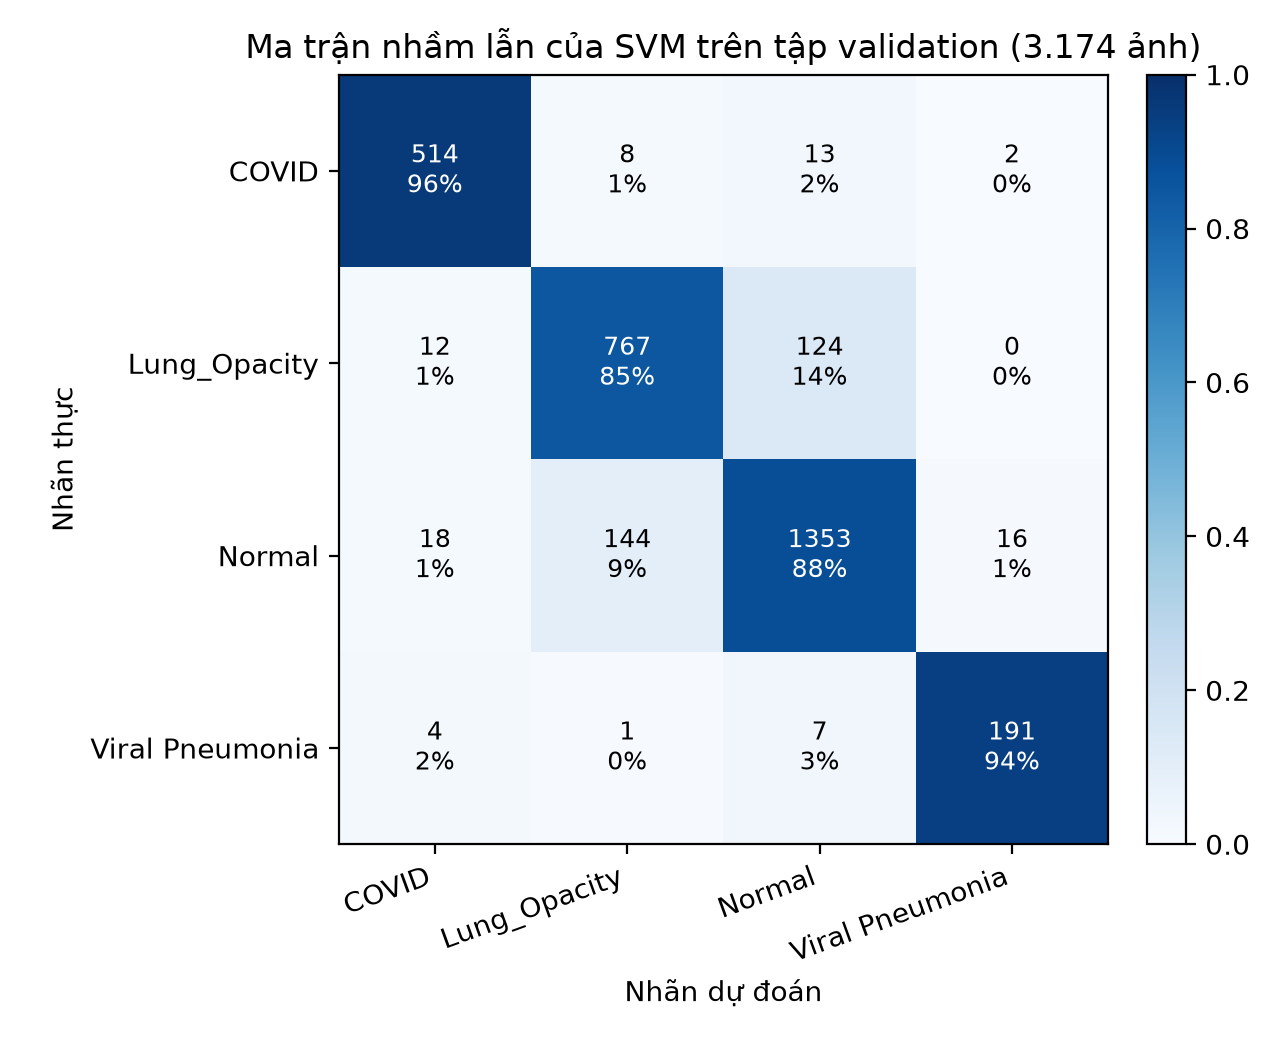
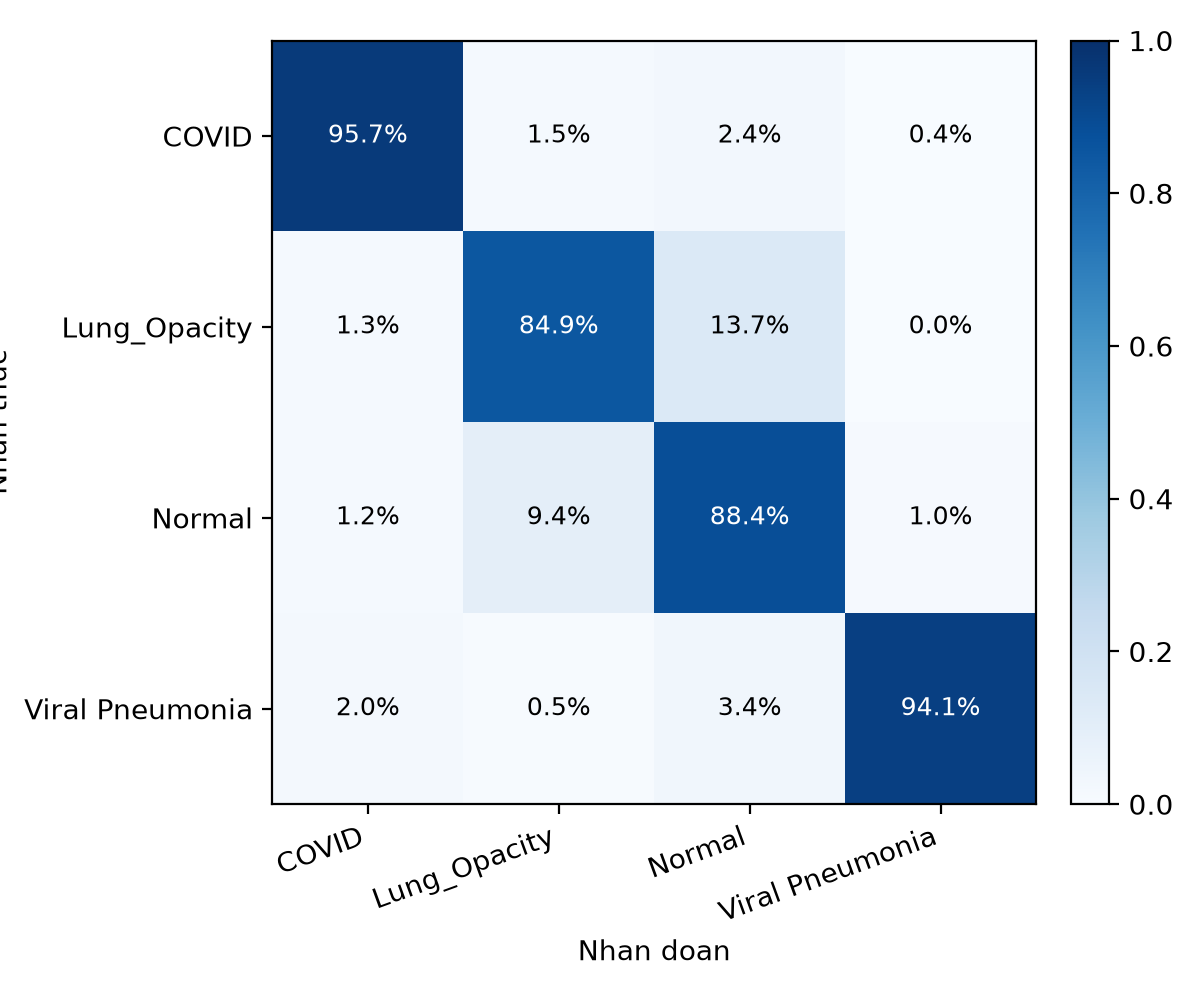
report: fix chapter 3 pair rates and rgb check

diff --git a/scripts/report_figures.py b/scripts/report_figures.py
@@ -1,8 +1,9 @@
-"""Sinh Hình 3.1 cho báo cáo: ma trận nhầm lẫn chuẩn hóa theo hàng.
+"""Sinh Hình 3.1 cho báo cáo: tỷ lệ lỗi theo hàng của ma trận nhầm lẫn.
 
 Số liệu đọc từ ``results/rq2_ghep_svm_s42/metrics.json`` (khóa ``confusion_matrix``),
 đã commit và không đọc ảnh. Mỗi hàng chia cho tổng hàng, nên ô trên đường chéo là recall
-của lớp đó. Hình ghi kèm số đếm gốc trong ngoặc để bảng và hình không lệch nhau.
+của lớp đó. Hình chỉ hiện tỷ lệ; số đếm gốc nằm ở Bảng 3.5 của báo cáo để hai chỗ không
+lặp lại cùng một thông tin.
 
 Chạy: ``python -m scripts.report_figures``
 """
@@ -47,32 +48,22 @@ def normalize_rows(matrix: np.ndarray) -> np.ndarray:
     return matrix / safe
 
 
-def draw(matrix: np.ndarray, out_path: Path, title: str) -> Path:
-    """Vẽ heatmap recall theo hàng cho ma trận nhầm lẫn."""
+def draw(matrix: np.ndarray, out_path: Path) -> Path:
+    """Vẽ heatmap tỷ lệ lỗi theo hàng cho ma trận nhầm lẫn."""
     row_normalized = normalize_rows(matrix)
-    fig, ax = plt.subplots(figsize=(6.4, 5.2))
+    fig, ax = plt.subplots(figsize=(6.0, 5.0))
     image = ax.imshow(row_normalized, cmap="Blues", vmin=0.0, vmax=1.0)
 
     ax.set_xticks(range(4), CLASS_NAMES, rotation=20, ha="right")
     ax.set_yticks(range(4), CLASS_NAMES)
-    ax.set_xlabel("Nhãn dự đoán")
-    ax.set_ylabel("Nhãn thực")
-    ax.set_title(title)
+    ax.set_xlabel("Nhan doan")
+    ax.set_ylabel("Nhan thuc")
 
     for i in range(4):
         for j in range(4):
-            value = matrix[i, j]
             share = row_normalized[i, j]
             color = "white" if share > 0.55 else "black"
-            ax.text(
-                j,
-                i,
-                f"{value}\n{share:.0%}",
-                ha="center",
-                va="center",
-                fontsize=9,
-                color=color,
-            )
+            ax.text(j, i, f"{share:.1%}", ha="center", va="center", fontsize=9, color=color)
 
     fig.colorbar(image, ax=ax, fraction=0.046, pad=0.04)
     ax.set_aspect("equal")
@@ -87,7 +78,7 @@ def draw(matrix: np.ndarray, out_path: Path, title: str) -> Path:
 def build(metrics_path: Path, out_path: Path) -> Dict[str, object]:
     """Đọc số liệu, vẽ hình và trả về thông tin dùng cho báo cáo."""
     matrix = load_confusion(metrics_path)
-    path = draw(matrix, out_path, "Ma trận nhầm lẫn của SVM trên tập validation (3.174 ảnh)")
+    path = draw(matrix, out_path)
     row_normalized = normalize_rows(matrix)
     diagonal = row_normalized.diagonal().tolist()
     return {
@@ -105,8 +96,8 @@ def main(argv: List[str] | None = None) -> int:
     args = parser.parse_args(argv)
 
     info = build(args.metrics, args.out)
-    print(f"Đã ghi {info['figure']}")
-    print(f"Recall theo hàng: {info['row_recall']}")
+    print(f"Da ghi {info['figure']}")
+    print(f"Recall theo hang: {info['row_recall']}")
     return 0
 
 

diff --git a/report/03_ket_qua_rq1_rq2.md b/report/03_ket_qua_rq1_rq2.md
@@ -2,7 +2,7 @@
 
 ## 3.1. RQ1: bốn nhóm đặc trưng trên Random Forest
 
-Câu hỏi RQ1 chọn nhóm đặc trưng nào cho macro-F1 cao nhất khi bộ phân loại được cố định trước. Bộ phân loại đó là Random Forest với 500 cây và `class_weight = balanced_subsample`, chạy trên ba seed 42, 43 và 44. Bốn nhóm đặc trưng được so sánh trên cùng một tập validation 3.174 ảnh; histogram giữ vai trò mốc tham chiếu.
+RQ1 hỏi nhóm đặc trưng nào cho macro-F1 cao nhất khi bộ phân loại được cố định trước. Bộ phân loại đó là Random Forest với 500 cây và `class_weight = balanced_subsample`, chạy trên ba seed 42, 43 và 44. Bốn nhóm đặc trưng được so sánh trên cùng một tập validation 3.174 ảnh; histogram giữ vai trò mốc tham chiếu.
 
 **Bảng 3.1: Macro-F1 bốn nhóm đặc trưng trên validation, trung bình 3 seed**
 
@@ -17,11 +17,11 @@ Câu hỏi RQ1 chọn nhóm đặc trưng nào cho macro-F1 cao nhất khi bộ 
 
 Cả 12 lần chạy, gồm bốn nhóm nhân ba seed, đều vượt hai mốc nền: mốc tầm thường B0 = 0,1627 và mốc A0 = 0,2397. Như vậy không nhóm đặc trưng nào chỉ dừng ở mức của một mô hình đọc độ sáng và định dạng tệp.
 
-Thứ tự xếp hạng không đi theo số chiều: nhóm 152 chiều đứng đầu, nhóm 64 chiều đứng thứ ba và nhóm 10.404 chiều đứng cuối. Nhóm ghép đổi 0,0770 điểm macro-F1 so với histogram, đổi lại tốn 0,056773 giây CPU cho mỗi ảnh so với 0,001337 giây, tức khoảng 42 lần.
+Thứ tự xếp hạng không đi theo số chiều: nhóm 152 chiều đứng đầu, nhóm 64 chiều đứng thứ ba và nhóm 10.404 chiều đứng cuối. Nhóm ghép cao hơn histogram 0,0770 điểm macro-F1 nhưng tốn khoảng 42 lần thời gian trích đặc trưng mỗi ảnh (0,0568 so với 0,0013 giây CPU).
 
 Thứ hạng này được đo với một bộ phân loại duy nhất. Với bộ phân loại khác, thứ tự có thể thay đổi; đề tài không đo phép đó. HOG với 10.404 chiều trên Random Forest là trường hợp đáng chú ý, vì mỗi cây của bộ này chỉ xem một tập con ngẫu nhiên của chiều.
 
-Cột recall của lớp nhỏ nhất cho thấy hai nhóm bổ sung nhau. Histogram đứng thứ ba về macro-F1 nhưng chỉ đạt 0,6207 recall trên lớp Viral Pneumonia; HOG đứng cuối về macro-F1 nhưng đứng đầu cột này với 0,7849. Histogram bỏ qua vị trí điểm ảnh và chỉ giữ phân bố mức xám, nên có thể ít thông tin để tách lớp nhỏ nhất. Báo cáo không giải thích sự đổi vai này.
+Cột recall của lớp nhỏ nhất cho thấy hai nhóm có điểm mạnh khác nhau. Histogram đứng thứ ba về macro-F1 nhưng chỉ đạt 0,6207 recall trên lớp Viral Pneumonia; HOG đứng cuối về macro-F1 nhưng đứng đầu cột này với 0,7849. Histogram bỏ qua vị trí điểm ảnh và chỉ giữ phân bố mức xám, nên có thể ít thông tin để tách lớp nhỏ nhất. Hiện chưa có dữ liệu để giải thích sự đổi vai này.
 
 ## 3.2. Kiểm định thống kê và quyết định chọn nhóm ghép
 
@@ -35,7 +35,7 @@ Chênh lệch giữa các nhóm được kiểm bằng bootstrap ghép cặp 2.0
 | GLCM kết hợp LBP | +0,0328 | [+0,0131; +0,0513] | Không | Có |
 | HOG | −0,0203 | [−0,0419; +0,0014] | Có | Không |
 
-Nhóm ghép vượt ngưỡng quy tắc gấp 15,4 lần và khoảng tin cậy nằm hoàn toàn ở phía dương. Chỉ nhóm ghép thỏa đồng thời hai điều kiện, nên nó được chọn để mang sang RQ2. Nhóm GLCM kết hợp LBP đạt cả hai điều kiện nhưng không phải ứng viên tốt nhất; HOG không đạt trên cả hai tiêu chí.
+Nhóm ghép vượt ngưỡng quy tắc gấp 15,4 lần và khoảng tin cậy nằm hoàn toàn ở phía dương. Hai nhóm ghép và GLCM kết hợp LBP thỏa cả hai điều kiện; nhóm ghép có macro-F1 cao hơn nên được chọn để mang sang RQ2. HOG không đạt trên cả hai tiêu chí.
 
 Phép so sánh giữa nhóm ghép và nhóm GLCM kết hợp LBP, chênh 0,0443, không nằm trong giao thức đã chốt vì mỗi câu hỏi chỉ có một phép so sánh chính. Chênh lệch đó vì thế không được kiểm định.
 
@@ -77,7 +77,7 @@ Trên 3.174 ảnh validation, mô hình đạt accuracy 89,00%, balanced accurac
 | Normal | 1.531 | 0,9038 | 0,8837 | 0,8937 |
 | Viral Pneumonia | 203 | 0,9139 | 0,9409 | 0,9272 |
 
-F1 các lớp trải từ 0,8415 của Lung_Opacity đến 0,9272 của Viral Pneumonia. Lớp nhỏ nhất có 203 ảnh lại đạt F1 cao thứ hai, còn lớp đông thứ hai với 903 ảnh đạt thấp nhất.
+F1 các lớp trải từ 0,8415 của Lung_Opacity đến 0,9475 của COVID. Lớp nhỏ nhất, Viral Pneumonia với 203 ảnh, đạt F1 cao thứ hai; lớp đông thứ hai với 903 ảnh đạt thấp nhất.
 
 **Bảng 3.5: Ma trận nhầm lẫn của SVM trên validation**
 
@@ -88,27 +88,32 @@ F1 các lớp trải từ 0,8415 của Lung_Opacity đến 0,9272 của Viral Pn
 | Normal (1.531) | 18 | 144 | 1.353 | 16 |
 | Viral Pneumonia (203) | 4 | 1 | 7 | 191 |
 
-![Ma trận nhầm lẫn của SVM trên tập validation, mỗi hàng chuẩn hóa theo tổng hàng](../figures/03_ma_tran_nham_lon_svm_val.png)
+![Tỷ lệ lỗi theo hàng của ma trận nhầm lẫn](../figures/03_ma_tran_nham_lon_svm_val.png)
 
-**Hình 3.1: Ma trận nhầm lẫn của SVM trên tập validation, mỗi hàng chuẩn hóa theo tổng hàng**
+**Hình 3.1: Tỷ lệ lỗi theo hàng của ma trận nhầm lẫn của SVM trên 3.174 ảnh validation**
 
-Trong Hình 3.1, ô trên đường chéo là recall của từng lớp và các ô cùng hàng cộng lại thành 100%. Số đếm gốc ghi trong ngoặc nên hình và Bảng 3.5 không lệch nhau.
+Mỗi hàng của Hình 3.1 là một nhãn thực, và các ô cùng hàng cộng lại gần bằng 100%; chênh lệch vài phần mười do làm tròn một chữ số thập phân. Ô trên đường chéo là recall của lớp đó, và các ô mép hiện được tỷ lệ nhỏ như 0,4% thay vì bị làm tròn thành 0%. Số đếm gốc của từng ô nằm ở Bảng 3.5.
 
-Lỗi không dàn đều. Cặp Normal và Lung_Opacity chiếm 268 trong 349 lỗi, tức 76,79%: gồm 144 ảnh Normal bị đoán thành Lung_Opacity và 124 ảnh Lung_Opacity bị đoán thành Normal, các lỗi còn lại chỉ còn 81. Hai lớp này lấy ảnh từ cùng cuộc thi RSNA, với toàn bộ 6.012 ảnh Lung_Opacity và 8.851 trong số 10.192 ảnh Normal; các cặp khác nguồn lại có ít lỗi hơn, từ 20 lỗi của cặp COVID với Lung_Opacity đến 1 lỗi của cặp Viral Pneumonia với Lung_Opacity. Mô hình phân biệt tốt hơn giữa các cặp khác nguồn so với cặp cùng nguồn, và kiểu phân bố này phù hợp với giả thuyết mô hình dùng được đặc điểm của nguồn ảnh. Nó chưa loại trừ khả năng hai lớp cùng nguồn có hình ảnh gần nhau hơn.
+Lỗi không dàn đều, và không đều theo số ảnh của lớp. Cặp Normal và Lung_Opacity chiếm 268 trong 349 lỗi, tức 76,79%: gồm 144 ảnh Normal bị đoán thành Lung_Opacity và 124 ảnh Lung_Opacity bị đoán thành Normal. Các lỗi còn lại chỉ còn 81. Hai lớp này lấy ảnh từ cùng cuộc thi RSNA, với toàn bộ 6.012 ảnh Lung_Opacity và 8.851 trong số 10.192 ảnh Normal; cặp này cũng gồm hai lớp đông nhất nên số lỗi thô có thể chỉ phản ánh quy mô. Vì vậy Bảng 3.6 dẫn tỷ lệ lỗi trên số ảnh của hai lớp thay vì số đếm.
 
-Một kiểu lỗi thứ hai nằm ở lớp Viral Pneumonia. Lớp này có 30 lỗi, trong đó 23 lỗi (76,7%) xảy ra với nhãn Normal, cả hai chiều. Toàn bộ 1.345 ảnh Viral Pneumonia và 1.341 trong số 10.192 ảnh Normal đến từ cùng một bộ dữ liệu Kaggle (mục 2.1), nên lỗi của lớp này tập trung về nhóm cùng nguồn, giống kiểu vừa thấy ở cặp Normal với Lung_Opacity.
+**Bảng 3.6: Tỷ lệ lỗi của từng cặp lớp trên tập validation**
 
-Mốc so rõ nhất của dấu nguồn lại không nằm trong các lỗi đó. Trong 140 ảnh Viral Pneumonia lưu ở hệ màu RGB, chỉ 2 ảnh nằm trong 30 lỗi của lớp, tức 6,7%, trong khi RGB chiếm 10,4% cả lớp; trong 23 lỗi với nhãn Normal thì không có ảnh RGB nào. Nếu mô hình bám vào định dạng tệp, các ảnh RGB phải bị phân loại tốt hơn mức trung bình của lớp, và đúng là chúng không nằm trong các ca sai. Như vậy định dạng tệp không giải thích được lỗi của lớp này.
+| Cặp lớp | Số lỗi | Tổng ảnh hai lớp | Tỷ lệ |
+| :--- | ---: | ---: | ---: |
+| Normal – Lung_Opacity | 268 | 2.434 | 11,0% |
+| COVID – Normal | 31 | 2.068 | 1,50% |
+| COVID – Lung_Opacity | 20 | 1.440 | 1,39% |
+| Viral Pneumonia – Normal | 23 | 1.734 | 1,33% |
+| COVID – Viral Pneumonia | 6 | 740 | 0,81% |
+| Viral Pneumonia – Lung_Opacity | 1 | 1.106 | 0,09% |
 
-Phép tách cần cho kết luận chặt chẽ hơn thì không làm được: lớp Normal gồm 8.851 ảnh RSNA và 1.341 ảnh của bộ Kaggle, nhưng tên tệp đã ẩn danh và tệp metadata ghi nguồn từng ảnh không có trong repo, nên không biết trong 23 lỗi đó bao nhiêu ảnh thuộc nhóm nào. Đây là giới hạn của quan sát trên tập validation; RQ3 đo mức phụ thuộc của mô hình vào vùng ngoài phổi ở Chương 4, và kết quả đó mới cho biết khả năng dùng dấu nguồn có thật hay không.
+Cặp Normal – Lung_Opacity cao gấp khoảng 7 lần cặp đứng thứ hai, nên sự chênh lệch này không do quy mô lớp. Hai lớp cùng nguồn RSNA, và mô hình phân biệt tốt hơn nhiều giữa các cặp khác nguồn so với cặp cùng nguồn. Kiểu phân bố này phù hợp với giả thuyết mô hình dùng được đặc điểm của nguồn ảnh, đồng thời chưa loại trừ khả năng hai lớp cùng nguồn có hình ảnh gần nhau hơn.
 
-Ba điểm cần thêm khi đọc số lỗi của mục này.
+Một kiểu lỗi thứ hai nằm ở lớp Viral Pneumonia. Lớp này có 12 lỗi trên nhãn thật và xuất hiện trong 18 lỗi dương tính giả. Phần lớn lỗi của lớp rơi vào nhãn Normal: 7 ảnh bị đoán thành Normal và 16 ảnh Normal bị đoán thành Viral Pneumonia, cả hai chiều cộng 23 trường hợp. Nhưng nhìn trên Bảng 3.6 thì cặp Viral Pneumonia – Normal có tỷ lệ 1,33%, thấp hơn cặp COVID – Normal với 1,50%, nên việc lỗi dồn về nhãn Normal có thể chỉ do Normal là lớp đông nhất. Toàn bộ 1.345 ảnh Viral Pneumonia đến từ một bộ Kaggle, nhưng chỉ 1.341 trong số 10.192 ảnh Normal đến từ bộ đó, tức 13% lớp Normal. Con số 23 vì thế chưa cho thấy điều gì đặc biệt về nguồn ảnh.
 
-Thứ nhất, 240 trong 349 lỗi (68,8%) bị cả ba mô hình SVM, Gradient Boosting và Random Forest đoán sai, nên phần lớn lỗi đến từ đặc trưng hoặc từ nhãn chứ không riêng một bộ phân loại.
+Dấu hiệu rõ nhất của nguồn, tức 140 ảnh lưu ở hệ màu RGB, cũng không giải thích được lỗi của lớp. Trong số 12 ảnh Viral Pneumonia bị đoán sai thì 2 ảnh là RGB, tức 16,7%, trong khi RGB chiếm 10,3% cả lớp; tính riêng, nhóm 21 ảnh RGB trong validation đạt recall 90,5% so với 94,5% của 182 ảnh còn lại. Nếu mô hình bám vào đặc điểm xuất tệp đi kèm định dạng RGB thì nhóm này phải được phân loại tốt hơn, nhưng thực tế nó thấp hơn một chút. Cả hai con số đều rút từ 21 ảnh nên chưa đủ để kết luận phương hướng nào.
 
-Thứ hai, 138 trong 349 lỗi (39,5%) được mô hình đoán với độ tin cậy từ 0,80 trở lên, tức mô hình tự tin trên các ca sai. Con số này lấy từ bốn cột xác suất của `preds_val.csv`, là đầu ra của bước hiệu chỉnh xác suất của SVM trên tập validation.
-
-Thứ ba, mô hình 0,9024 là mô hình cao nhất trong sáu bộ trên chính tập validation, nên con số này chịu thiên lệch do chọn lọc và có thể cao hơn mức thực. Chương 5 kiểm lại trên tập test.
+Bốn điểm cần thêm khi đọc kết quả của mục này. Pipeline ép mọi ảnh về ảnh xám trước khi trích đặc trưng, nên mô hình không hề thấy hệ màu của tệp; tác động của RGB nếu có chỉ đến gián tiếp, qua các đặc điểm đi kèm với cách xuất tệp. Về phân bố lỗi, 240 trong 349 lỗi (68,8%) bị cả ba mô hình SVM, Gradient Boosting và Random Forest đoán sai, nên phần lớn lỗi đến từ đặc trưng hoặc từ nhãn chứ không riêng một bộ phân loại. Về độ tin cậy, 138 trong 349 lỗi (39,5%) được mô hình đoán với xác suất từ 0,80 trở lên, tức mô hình tự tin trên các ca sai. Cuối cùng, điểm 0,9024 là cao nhất trong sáu bộ trên chính tập validation, nên nó chịu thiên lệch do chọn lọc và có thể cao hơn mức thực; Chương 5 kiểm lại trên tập test.
 
 Các điểm trên đều nằm ngoài phạm vi kiểm định của chương này và được xét lại ở Chương 6.
 
@@ -120,11 +125,11 @@ Các điểm trên đều nằm ngoài phạm vi kiểm định của chương n
 - **Nguồn mục 3.2:** `results/report_rq1/r1_bootstrap_vs_reference.csv` (ba phép so sánh với mốc histogram, 2.000 lần, `rng_seed = 42`) và `results/rq1_feature_selection_record.md` mục 3–4 (quy tắc chọn nhóm đặc trưng). Hệ số 15,4 là 0,0770/0,005 tính trong báo cáo, không có trong tệp nguồn.
 - **Nguồn mục 3.3:** `results/report_rq2/r1_summary.csv` (sáu bộ, số seed, khoảng tin cậy) và `results/report_rq2/r1_bootstrap_vs_reference.csv` (năm phép so sánh với mốc Random Forest). Cấu hình SVM lấy từ `results/rq2_ghep_svm_s42/metrics.json`.
 - **Nguồn mục 3.3 (bổ sung):** chênh lệch Gradient Boosting so với mốc `rf` là +0,0286 với CI [+0,0183; +0,0399], lấy từ `results/report_rq2/r1_bootstrap_vs_reference.csv`. Chênh lệch giữa nhóm ghép và nhóm GLCM kết hợp LBP ở mục 3.2 là 0,859895 − 0,815637 = 0,0443, tính từ `r1_summary.csv`; không có phép kiểm định cho con số này.
-- **Số ảnh RGB trong lỗi Viral Pneumonia:** đối chiếu `image_id` của 30 lỗi liên quan đến lớp này trong `results/rq2_ghep_svm_s42/preds_val.csv` với cột `color_mode` của `splits/manifest.csv`: 2 ảnh RGB trong 30 lỗi, 0 ảnh RGB trong 23 lỗi với nhãn Normal. Tỉ lệ RGB của cả lớp là 140/1.345 = 10,4%.
-- **Số ảnh thuộc nhóm Mooney hay RSNA trong lớp Normal không tách được** vì tên tệp trong `splits/manifest.csv` đã ẩn danh và bốn tệp `.metadata.xlsx` ghi nguồn từng ảnh không có trong repo; chúng chỉ được tải về thư mục tạm khi kiểm chứng `docs/dataset_provenance.md`.
-- **Nguồn mục 3.4:** `results/rq2_ghep_svm_s42/metrics.json` (accuracy, balanced accuracy, macro-F1, chỉ số từng lớp, ma trận nhầm lẫn) và `results/error_analysis/error_analysis_summary.md` mục 1–2 (349 lỗi, 240 lỗi đồng thuận, 138 lỗi có `proba_pred` từ 0,80 trở lên).
+- **Số ảnh RGB trong lỗi Viral Pneumonia:** đối chiếu `image_id` trong `results/rq2_ghep_svm_s42/preds_val.csv` với cột `color_mode` của `splits/manifest.csv`: 2 trong 12 ảnh bị đoán sai là RGB (16,7%), còn RGB chiếm 10,3% lớp; trong validation có 21 ảnh RGB trên tổng 203 ảnh lớp, đạt recall 90,5% so với 94,5% của 182 ảnh còn lại. Các con số rút từ 21 ảnh nên không kết luận được phương hướng.
+- **Phép tách ảnh Normal theo nguồn chưa làm được.** Cột `URL` của `Normal.metadata.xlsx` phân biệt được 8.851 ảnh RSNA và 1.341 ảnh của bộ Kaggle, và chính tệp đó đã được dùng để lập bảng nguồn ở mục 2.1 (`docs/dataset_provenance.md` mục 2.1–2.2). Tệp không nằm trong repo nên không kiểm chứng lại được, và máy soạn thảo hiện không có thông tin xác thực Kaggle để tải lại; việc này có thể làm nếu tải tệp metadata về. Đây là phép kiểm rẻ nhất cho giả thuyết cùng nguồn, nên nên làm nếu tải được tệp đó.
+- **Nguồn mục 3.4:** `results/rq2_ghep_svm_s42/metrics.json` (accuracy, balanced accuracy, macro-F1, chỉ số từng lớp, ma trận nhầm lẫn), `results/rq2_ghep_svm_s42/preds_val.csv` (nhãn thực, nhãn dự đoán và bốn cột xác suất của từng ảnh; độ tin cậy 0,80 lấy từ cột nhãn dự đoán) và `results/error_analysis/error_analysis_summary.md` mục 1–2 (349 lỗi, 240 lỗi đồng thuận, 138 lỗi có `proba_pred` từ 0,80 trở lên). Bảng 3.6 tính từ `preds_val.csv`, mẫu số là tổng ảnh hai lớp trong validation.
 - **Số 23 trong 30 lỗi của Viral Pneumonia:** 7 ảnh Viral Pneumonia bị đoán thành Normal (dòng cuối của Bảng 3.5) cộng 16 ảnh Normal bị đoán thành Viral Pneumonia (cột cuối). Con số 1.341 ảnh Normal cùng nguồn lấy từ `docs/dataset_provenance.md` mục 2.1 và đã dùng ở mục 2.1.
-- **Hình 3.1:** sinh bằng `python -m scripts.report_figures` từ `confusion_matrix` trong `results/rq2_ghep_svm_s42/metrics.json`; mỗi hàng chia cho tổng hàng nên đường chéo là recall, khớp với cột recall ở Bảng 3.4 (kiểm thử `tests/test_report_figures.py` giữ điều này). Hình ghi kèm số đếm gốc để không lệch Bảng 3.5.
+- **Hình 3.1:** sinh bằng `python -m scripts.report_figures` từ `confusion_matrix` trong `results/rq2_ghep_svm_s42/metrics.json`; mỗi hàng chia cho tổng hàng nên đường chéo là recall, khớp với cột recall ở Bảng 3.4 (kiểm thử `tests/test_report_figures.py` giữ điều này). Hình chỉ hiện tỷ lệ với một chữ số thập phân, số đếm gốc nằm ở Bảng 3.5.
 - **Không dùng tệp test:** `results/final_test/confusion_matrix_test.png` và mọi số liệu trong `results/final_test/` thuộc Chương 5.
 - **Các khẳng định nhân quả của tệp phân tích lỗi** (độ sáng, viền khung chụp, đặc điểm máy chụp) không được đưa vào báo cáo vì không kiểm chứng được từ ảnh; riêng nhận định về phụ thuộc nguồn ảnh được nêu lại dưới dạng khả năng và giao cho RQ3.
 - **Chưa đưa vào chương:** thời gian huấn luyện của từng bộ, chỉ số theo từng seed riêng lẻ, và phân tích lỗi theo mức độ tin cậy chi tiết hơn.
